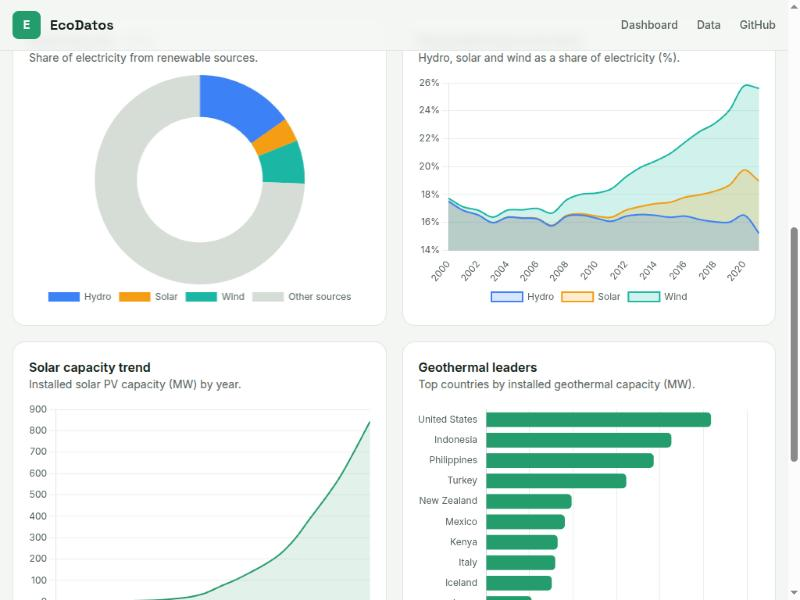
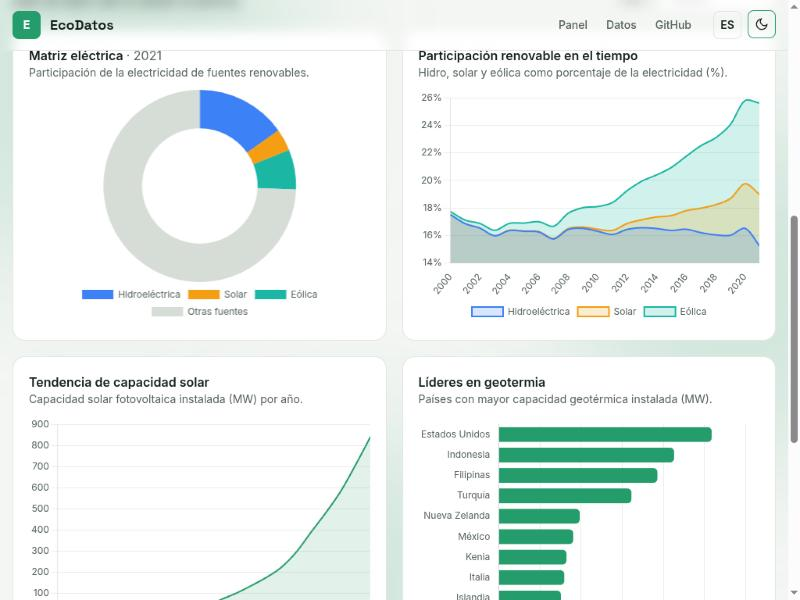
docs: document new features with light and dark screenshots

diff --git a/README.md b/README.md
@@ -1,6 +1,6 @@
 # EcoDatos
 
-A renewable-energy data dashboard. Pick a region and explore its electricity mix, how the hydro/solar/wind share has changed over time, its solar capacity trend, and a global ranking of geothermal leaders — all rendered with Chart.js from open datasets.
+A renewable-energy data dashboard. Pick a region and explore its electricity mix, how the hydro/solar/wind share has changed over time, its solar capacity trend, and a global ranking of geothermal leaders — all rendered with Chart.js from open datasets, in English or Spanish and light or dark.
 
 **Live demo:** [sagudelo01.github.io/Proyecto-Bootcamp](https://sagudelo01.github.io/Proyecto-Bootcamp/)
 
@@ -10,8 +10,10 @@ A renewable-energy data dashboard. Pick a region and explore its electricity mix
 
 - Region selector that updates the charts for 26 countries and regions
 - Four interactive charts: electricity mix (doughnut), renewable share over time (stacked area), solar capacity trend (line) and geothermal leaders (bar)
-- Key figures summarising the datasets
-- Responsive layout and accessibility basics: skip link, labelled controls, focus styles
+- English / Spanish toggle that translates the whole interface, including chart labels and region names; the choice is remembered and defaults to the browser language
+- Light / dark theme that the charts adapt to; it respects `prefers-color-scheme` and is remembered
+- Subtle CSS-only animated background that pauses when the tab is hidden and respects `prefers-reduced-motion`
+- Accessibility basics: skip link, labelled controls, focus styles, and a styled 404 page
 - Data is pre-processed into a small JS bundle, so the dashboard loads instantly with no backend
 
 ## Stack
@@ -41,6 +43,6 @@ avoids runtime CSV parsing.
 
 ## Screenshots
 
-| Dashboard | Charts |
+| Charts (light) | Charts (dark, Spanish) |
 |---|---|
-| ![Dashboard](docs/dashboard.png) | ![Charts](docs/charts.png) |
+| ![Charts in light mode](docs/charts.png) | ![Charts in dark mode](docs/dark.png) |
